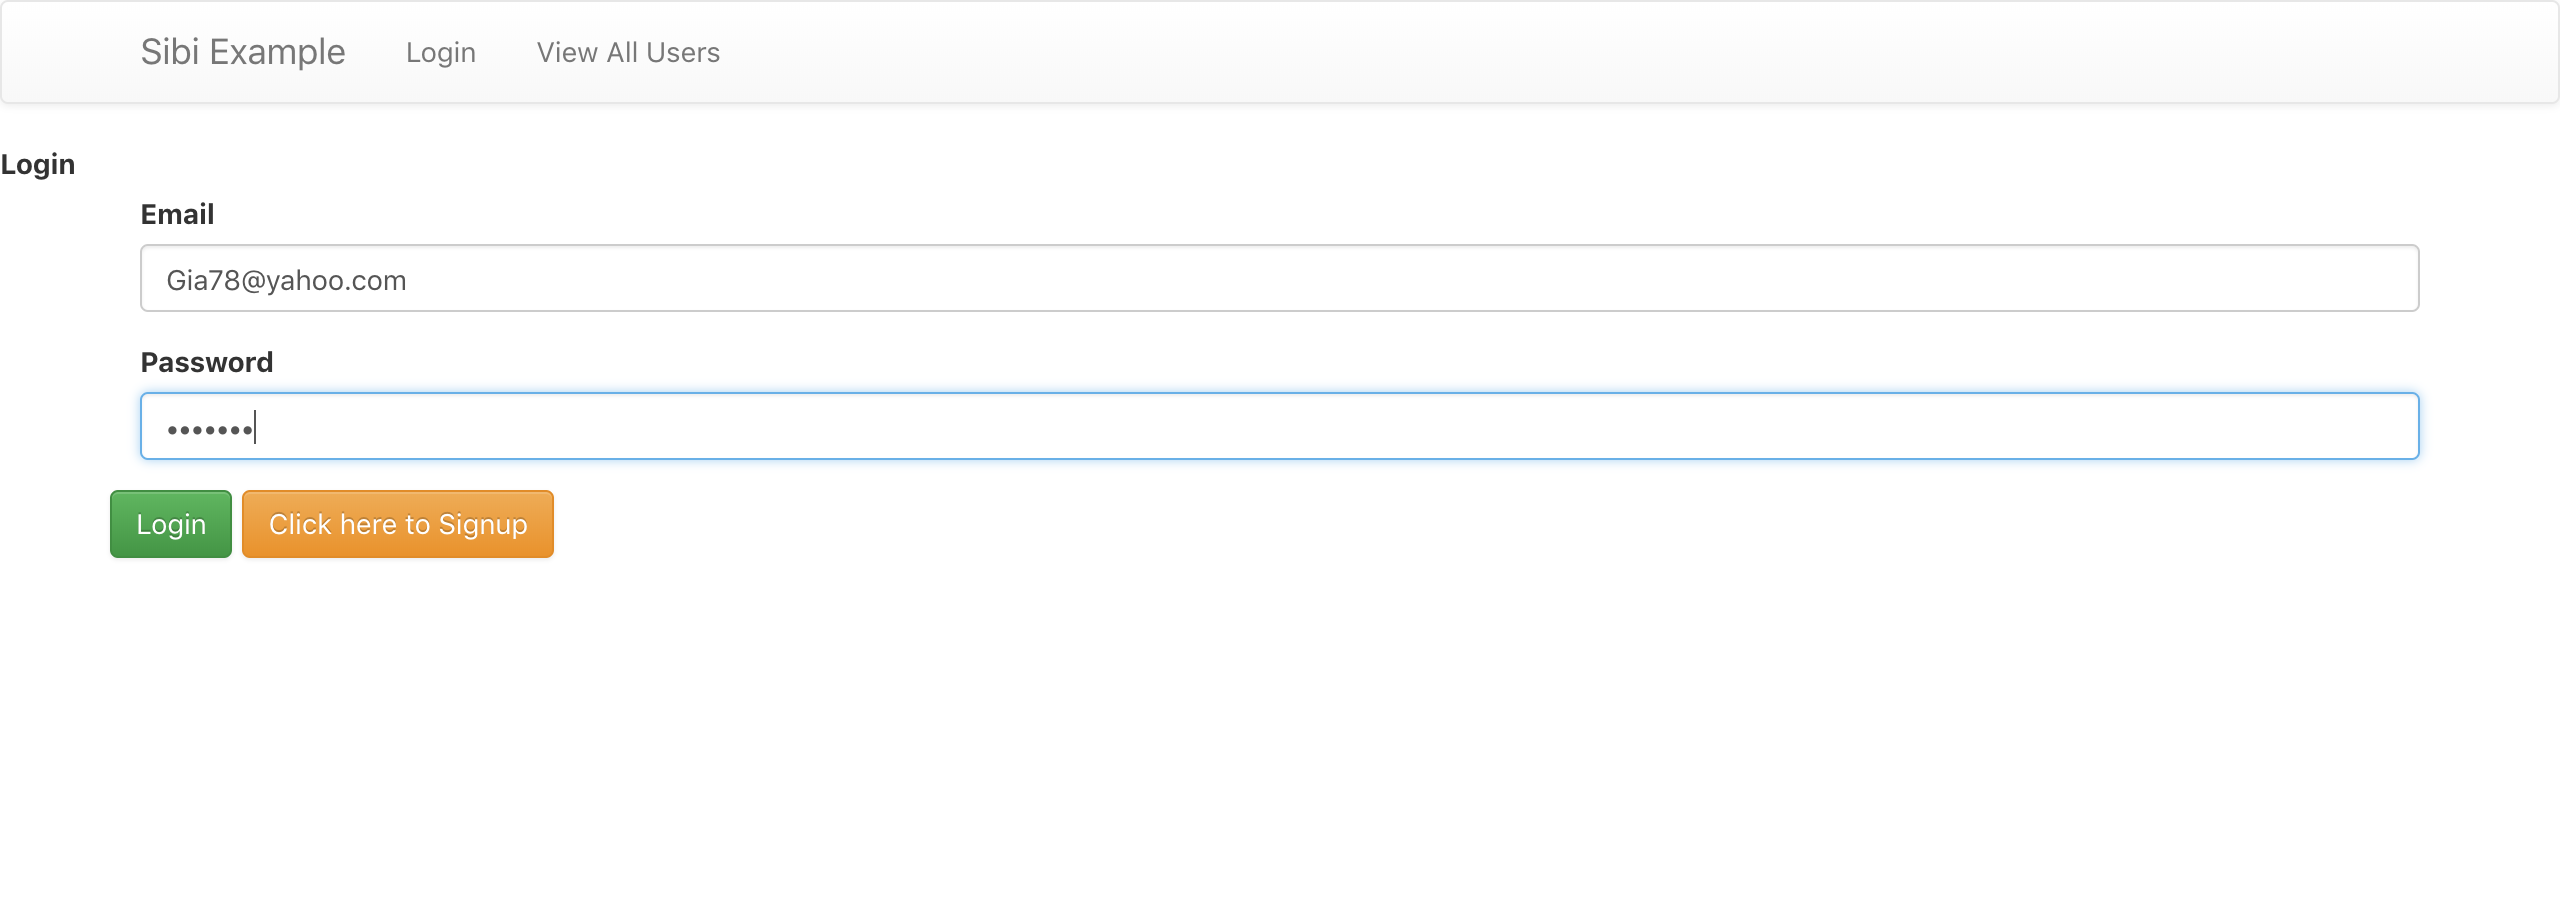
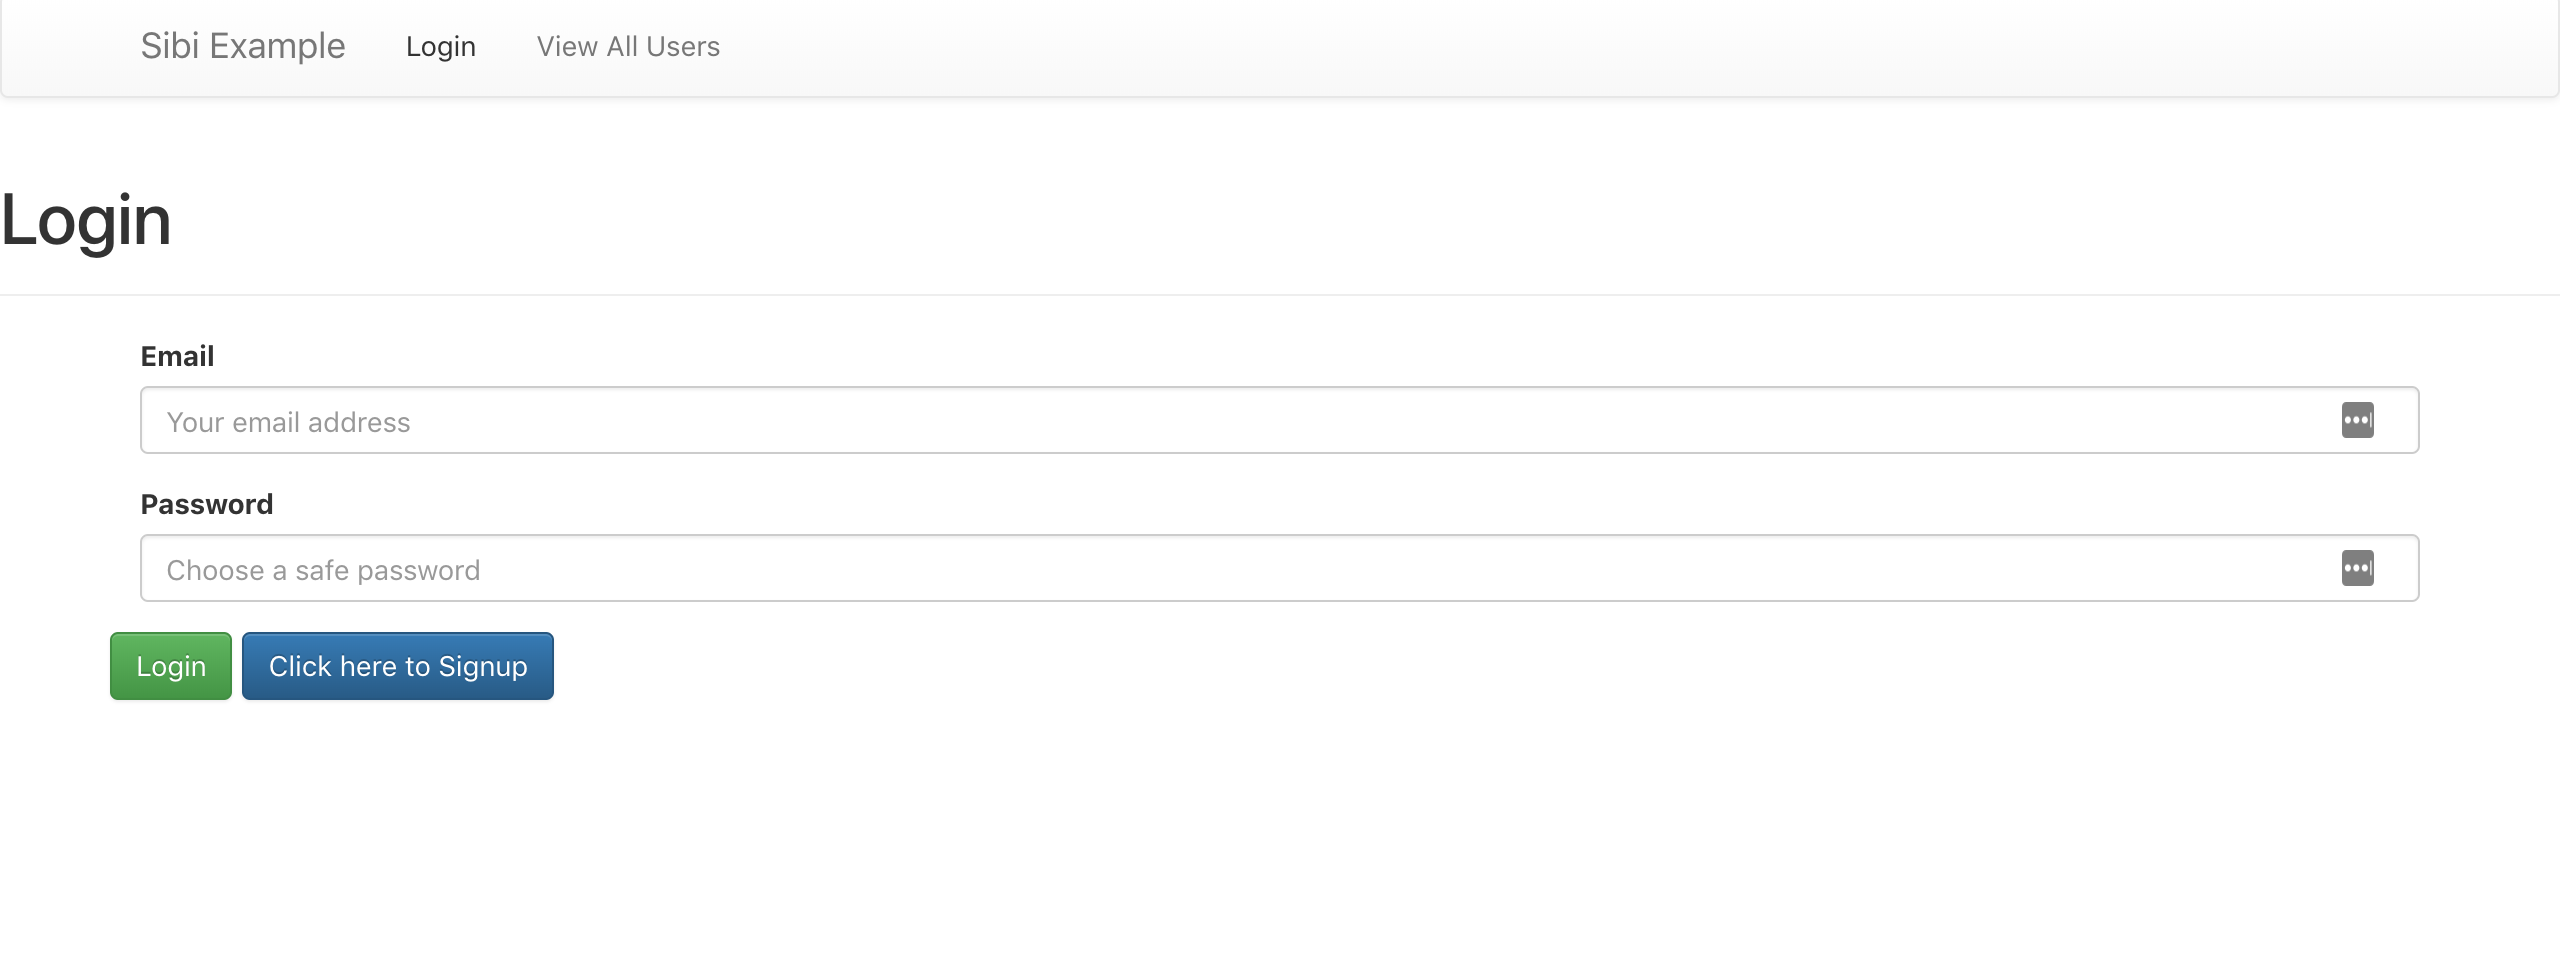
adds signup image and updates readme

Changed region(s): [[0.0312, 0.2794, 0.9375, 0.714], [0.0312, 0.031, 0.2812, 0.0931], [0.0, 0.1552, 0.0938, 0.2794]]

diff --git a/README.md b/README.md
@@ -8,7 +8,8 @@ Technologies Used:
 - ***MongoDB*** - For persisting data
 - ***Faker*** - For dummy user creation
 - ***Apollo*** - For data management on the client
-- ***Docker & Docker Compose*** - For ease of deployment
+- ***`graphql-yoga` & `create-react-app`*** - For easy setup
+- ***Docker & Docker Compose*** - For easy deployment
 
 ### Default Users
 
@@ -34,12 +35,16 @@ When you first open the page you'll see a user list:
 
 ![user_list](./images/user-list.png)
 
-### Login
+### Login & Signup
 
 You can click the login tab in the navbar
 and login with one of the emails given and the default password.
 
+You can also click the blue button to switch between login and signup
+
 ![login](./images/login.png)
+
+![signup](./images/signup.png)
 
 ### Todo List
 
